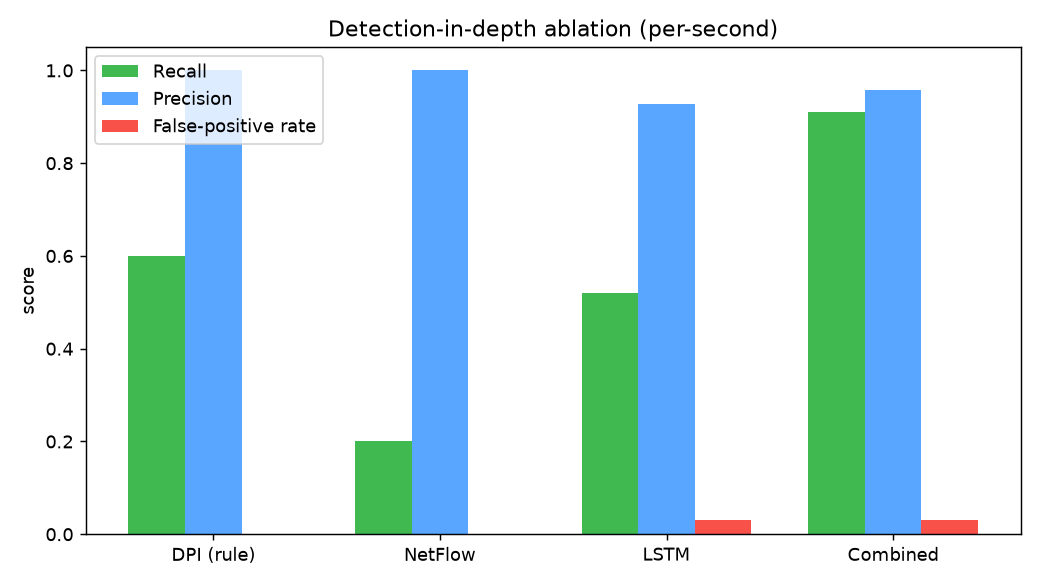
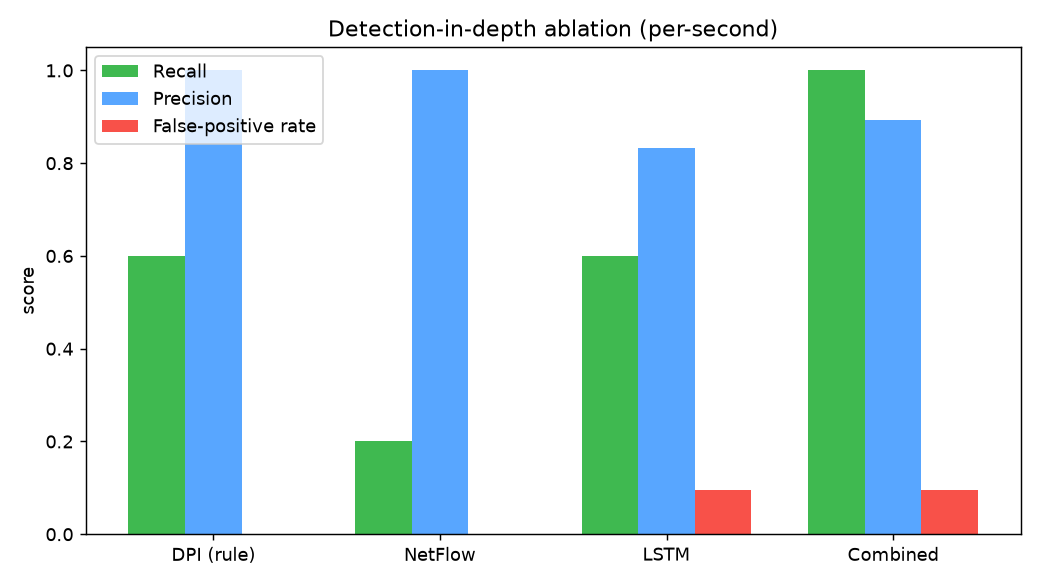
Fix dataset generator: controller now restores actuators after an attack
The legitimate HMI only wrote an actuator when its own decision changed, so it
wrote each pump once at t=0 and never again. After the command-injection and
stealth attacks it never switched P101 back on or P203 back off, so seconds
labelled normal after those attacks still carried the attack's effect, and the
LSTM was partly trained on them. Found while plotting the dataset for the report.

The HMI now compares its desired output with the register it just read and
re-asserts on mismatch, as a PLC re-applies outputs each scan cycle. New test
test_actuators_restored_after_attack_windows fails on the old code and passes
on the new.

Regenerated data/run1 and re-ran every simulator result:
- LSTM: stealth 56% -> 100% of windows; replay now 0% (it has no process effect;
  DPI still catches it).
- Combined: recall 0.911 -> 1.000, precision 0.958 -> 0.893, all five classes
  at 100%. All 27 false-positive seconds are LSTM alerts 1-9 s after an attack
  ends, where the 10 s window still overlaps attack data.
- NetFlow normal ceiling 9 -> 3 requests/window; still 45/45 floods, 0 FP.
- Ledger now 505 entries, tamper detection unchanged.

docs/results.md and README updated with the corrected numbers and an account
of the bug. Adds report/make_figures.py and report figures (architecture,
dataset timeline, dashboard screenshots). 24 tests pass.

diff --git a/report/make_figures.py b/report/make_figures.py
@@ -1,0 +1,154 @@
+"""
+Figures for the final report that are not produced by the evaluation scripts.
+
+    python -m report.make_figures
+
+Writes report/figures/architecture.png and report/figures/dataset_timeline.png.
+The evaluation plots (eval/results/*.png) and the dashboard screenshots are
+produced elsewhere and referenced directly by the report.
+"""
+from __future__ import annotations
+
+import csv
+import os
+
+import matplotlib
+matplotlib.use("Agg")
+import matplotlib.pyplot as plt
+from matplotlib.patches import FancyBboxPatch
+
+OUT = os.path.join("report", "figures")
+
+# light fills + strong edges read well on white paper
+C = {
+    "plant": ("#e8f1fb", "#2f6db5"), "hmi": ("#e8f1fb", "#2f6db5"),
+    "attack": ("#fde8e7", "#c62828"), "log": ("#f1f1f1", "#555555"),
+    "dpi": ("#e6f0ff", "#1f5fbf"), "nf": ("#fdf3dc", "#b7791f"),
+    "lstm": ("#f1eafc", "#6b3fb0"), "trust": ("#e5f5ef", "#1e7d5a"),
+}
+
+
+def box(ax, x0, y0, x1, y1, title, sub, kind):
+    fill, edge = C[kind]
+    ax.add_patch(FancyBboxPatch((x0, y0), x1 - x0, y1 - y0,
+                                boxstyle="round,pad=0.4,rounding_size=1.2",
+                                fc=fill, ec=edge, lw=1.6))
+    cx = (x0 + x1) / 2
+    ax.text(cx, (y0 + y1) / 2 + (1.1 if sub else 0), title, ha="center",
+            va="center", fontsize=10.5, fontweight="bold", color="#1b1b1b")
+    if sub:
+        ax.text(cx, (y0 + y1) / 2 - 1.6, sub, ha="center", va="center",
+                fontsize=8.3, color="#333333")
+
+
+def arrow(ax, x0, y0, x1, y1, color="#444444", style="-|>", ls="-"):
+    ax.annotate("", xy=(x1, y1), xytext=(x0, y0),
+                arrowprops=dict(arrowstyle=style, color=color, lw=1.5,
+                                linestyle=ls, shrinkA=0, shrinkB=0))
+
+
+def architecture() -> str:
+    fig, ax = plt.subplots(figsize=(11, 7.2))
+    ax.set_xlim(0, 100); ax.set_ylim(0, 66); ax.axis("off")
+
+    # --- OT segment -------------------------------------------------------
+    box(ax, 3, 52, 31, 62, "Plant simulator", "5 stages - 13 sensors, 9 actuators", "plant")
+    box(ax, 69, 52, 97, 62, "Soft-PLC / HMI", "authorised writer 10.0.0.5", "hmi")
+    ax.plot([31.8, 68.2], [57, 57], color="#2f6db5", lw=3)
+    ax.text(50, 58.6, "Modbus TCP (real frames)", ha="center", fontsize=9.5,
+            color="#2f6db5", fontweight="bold")
+    box(ax, 40, 44, 60, 50.5, "Attacker", "10.0.0.66 - 5 attack types", "attack")
+    arrow(ax, 50, 51, 50, 56.4, color="#c62828")
+
+    # --- data streams -----------------------------------------------------
+    box(ax, 3, 32, 31, 40, "Device log", "1 Hz sensor/actuator history", "log")
+    box(ax, 69, 32, 97, 40, "Network log", "decoded Modbus transactions", "log")
+    arrow(ax, 17, 51.4, 17, 40.6)
+    arrow(ax, 64, 57, 83, 40.6)
+    ax.text(76.5, 49, "tap", fontsize=8.5, color="#555555", style="italic")
+
+    # --- detection layer --------------------------------------------------
+    box(ax, 3, 17, 31, 25.5, "LSTM autoencoder", "stealthy / unseen behaviour", "lstm")
+    box(ax, 38, 17, 64, 25.5, "DPI rule engine", "who wrote what, where", "dpi")
+    box(ax, 71, 17, 97, 25.5, "NetFlow monitor", "request floods (DoS)", "nf")
+    arrow(ax, 17, 31.4, 17, 26.1)
+    arrow(ax, 76, 31.4, 51, 26.1)
+    arrow(ax, 88, 31.4, 84, 26.1)
+    ax.text(1.5, 28.5, "detection-in-depth", fontsize=9, color="#666666",
+            rotation=90, va="center")
+
+    # --- trust + response -------------------------------------------------
+    box(ax, 37, 2, 63, 10, "Correlator", "one time-ordered incident stream", "trust")
+    box(ax, 3, 2, 31, 10, "Operator dashboard", "FastAPI + WebSocket", "trust")
+    box(ax, 69, 2, 97, 10, "Hash-chain ledger", "SHA-256 links + Ed25519", "trust")
+    arrow(ax, 17, 16.4, 44, 10.6)
+    arrow(ax, 51, 16.4, 50, 10.6)
+    arrow(ax, 84, 16.4, 56, 10.6)
+    arrow(ax, 36.4, 6, 31.6, 6)
+    arrow(ax, 63.6, 6, 68.4, 6)
+
+    fig.tight_layout()
+    p = os.path.join(OUT, "architecture.png")
+    fig.savefig(p, dpi=170); plt.close(fig)
+    return p
+
+
+def dataset_timeline(device_log: str = "data/run1/device_log.csv") -> str:
+    rows = list(csv.DictReader(open(device_log, newline="", encoding="utf-8")))
+    t = [int(r["tick"]) for r in rows]
+    lit = [float(r["LIT101"]) for r in rows]
+    ph = [float(r["AIT202"]) for r in rows]
+    p101 = [int(float(r["P101"])) for r in rows]
+    p203 = [int(float(r["P203"])) for r in rows]
+    labels = [r["label"] for r in rows]
+
+    # contiguous attack windows
+    wins, cur = [], None
+    for i, l in enumerate(labels):
+        if l != "normal":
+            cur = (l, cur[1] if cur and cur[0] == l else i, i)
+        elif cur:
+            wins.append(cur); cur = None
+    if cur:
+        wins.append(cur)
+    short = {"false_data_injection": "False data\ninjection",
+             "command_injection": "Command\ninjection", "flooding_dos": "Flooding\n(DoS)",
+             "replay": "Replay", "stealth_manipulation": "Stealth\nmanipulation"}
+
+    fig, axes = plt.subplots(3, 1, figsize=(11, 6.4), sharex=True,
+                             gridspec_kw={"height_ratios": [1.2, 1, 0.8]})
+    for ax in axes:
+        for l, s, e in wins:
+            ax.axvspan(s, e + 1, color="#f28b82", alpha=0.25, lw=0)
+    for l, s, e in wins:
+        axes[0].text((s + e) / 2, 1240, short[l], ha="center", va="bottom",
+                     fontsize=8, color="#8e1b1b")
+
+    axes[0].plot(t, lit, color="#1f5fbf", lw=1.2)
+    axes[0].axhline(1100, color="#c62828", ls="--", lw=0.9)
+    axes[0].set_ylabel("LIT101\ntank level (mm)"); axes[0].set_ylim(0, 1450)
+    axes[0].text(3, 1115, "safe limit 1100", fontsize=7.5, color="#c62828")
+
+    axes[1].plot(t, ph, color="#6b3fb0", lw=1.2)
+    axes[1].set_ylabel("AIT202\npH")
+
+    axes[2].step(t, p101, where="post", color="#1e7d5a", lw=1.2, label="P101 transfer pump")
+    axes[2].step(t, [v + 1.3 for v in p203], where="post", color="#b7791f", lw=1.2,
+                 label="P203 acid pump (offset)")
+    axes[2].set_yticks([0, 1, 1.3, 2.3]); axes[2].set_yticklabels(["off", "on", "off", "on"])
+    axes[2].set_ylabel("pump state"); axes[2].legend(loc="center right", fontsize=7.5)
+    axes[2].set_xlabel("time (s)")
+    fig.tight_layout(rect=(0, 0, 1, 0.97))
+    p = os.path.join(OUT, "dataset_timeline.png")
+    fig.savefig(p, dpi=160); plt.close(fig)
+    return p
+
+
+def main() -> None:
+    os.makedirs(OUT, exist_ok=True)
+    for p in (architecture(), dataset_timeline()):
+        print("saved", p)
+
+
+if __name__ == "__main__":
+    main()

diff --git a/net/generate_dataset.py b/net/generate_dataset.py
@@ -102,8 +102,15 @@ def _write(ctx, address: int, value: int) -> None:
 # ---------------------------------------------------------------------------
 # Actors
 # ---------------------------------------------------------------------------
-async def hmi_tick(client, ctx, sink, last_cmd: dict) -> list[int]:
-    """HMI reads the sensor block then writes any changed actuator commands."""
+async def hmi_tick(client, ctx, sink) -> list[int]:
+    """HMI reads the register block, then re-asserts any actuator whose register
+    does not hold the value its control logic wants.
+
+    Comparing against the register (not against the HMI's own last command) is
+    what a PLC scan cycle does: outputs are re-applied every cycle. It also means
+    that once an attacker stops overriding an actuator, the next cycle restores
+    it, so post-attack data really is normal operation.
+    """
     # One block read (SCADA-style poll) — logged as a single read transaction.
     regs = await logged_read(client, HMI, 0, REGISTER_COUNT, sink) or \
         [_read(ctx, a) for a in range(REGISTER_COUNT)]
@@ -124,10 +131,9 @@ async def hmi_tick(client, ctx, sink, last_cmd: dict) -> list[int]:
         "P501": 1 if sv("LIT401") > 400 else 0,
     }
     for tag, val in cmds.items():
-        if last_cmd.get(tag) != val:                      # write only on change
-            await logged_write(client, HMI, BY_TAG[tag].address,
-                               BY_TAG[tag].to_register(val), sink)
-            last_cmd[tag] = val
+        p = BY_TAG[tag]
+        if regs[p.address] != p.to_register(val):         # output differs -> re-assert
+            await logged_write(client, HMI, p.address, p.to_register(val), sink)
     return regs
 
 
@@ -218,7 +224,6 @@ async def generate(out_dir: str, scenarios: list[str], speedup: float, seed: int
     net_log: list[Transaction] = []
     device_rows: list[dict] = []
     replay_buf: list[tuple[int, int]] = []
-    last_cmd: dict[str, int] = {}
 
     wall = "max speed" if speedup <= 0 else f"~{duration/speedup:.0f}s wall"
     print(f"Generating {duration} sim-seconds "
@@ -240,7 +245,7 @@ async def generate(out_dir: str, scenarios: list[str], speedup: float, seed: int
             await attack_pre_read(label, ctx, attacker, net_log, replay_buf)
             # 4. legitimate HMI poll + control
             before = len(net_log)
-            await hmi_tick(hmi, ctx, net_log, last_cmd)
+            await hmi_tick(hmi, ctx, net_log)
             # remember a legit actuator write for later replay
             for t in net_log[before:]:
                 if t.is_write and t.src_ip == HMI.ip:

diff --git a/tests/test_dataset_generator.py b/tests/test_dataset_generator.py
@@ -11,9 +11,10 @@ import pytest
 
 from net.generate_dataset import generate, DEVICE_COLUMNS
 from net.transaction import COLUMNS as NET_COLUMNS
-from net.config import LABEL_FDI, LABEL_STEALTH, ATTACKER
+from net.config import LABEL_FDI, LABEL_STEALTH, LABEL_CMD_INJECTION, ATTACKER
 
 PORT = 5124  # test-only Modbus port
+PORT_RESTORE = 5125
 
 
 @pytest.mark.asyncio
@@ -47,3 +48,25 @@ async def test_generate_small_dataset(tmp_path):
     stealth_rows = [r for r in dev if r["label"] == LABEL_STEALTH]
     assert all(6.5 <= float(r["AIT202"]) <= 8.5 for r in stealth_rows)
     assert all(int(r["P203"]) == 1 for r in stealth_rows)
+
+
+@pytest.mark.asyncio
+async def test_actuators_restored_after_attack_windows(tmp_path):
+    """An attacker's actuator override must not outlive its attack window.
+
+    The legitimate controller re-asserts its outputs each cycle, so once the
+    attack stops, the next cycle puts the pump back. Otherwise seconds labelled
+    'normal' after an attack would still carry the attack's effect.
+    """
+    out = str(tmp_path / "run")
+    # ticks: 0-7 normal | 8-15 command injection | 16-21 normal
+    #        22-29 stealth | 30-35 normal
+    await generate(out, scenarios=[LABEL_CMD_INJECTION, LABEL_STEALTH], speedup=0,
+                   seed=1, warmup=8, attack=8, gap=6, flood_n=10, port=PORT_RESTORE)
+    dev = list(csv.DictReader(open(os.path.join(out, "device_log.csv"), encoding="utf-8")))
+    state = lambda tag, lo, hi: [int(dev[t][tag]) for t in range(lo, hi + 1)]
+
+    assert state("P101", 8, 15) == [0] * 8     # attack holds the transfer pump off...
+    assert state("P101", 16, 21) == [1] * 6    # ...and it is back on once the attack ends
+    assert state("P203", 22, 29) == [1] * 8    # stealth holds the acid pump on...
+    assert state("P203", 30, 35) == [0] * 6    # ...and it is off again afterwards

diff --git a/docs/results.md b/docs/results.md
@@ -1,11 +1,11 @@
 # Evaluation Results (Phase 7)
 
 Generated by `python -m eval.evaluate` on `data/run1` (510 s of operation: normal
-traffic plus five attack episodes). Evaluation unit is one second (tick); ground
-truth is the device log's per-tick label. Reproduce with:
+traffic plus five 45-second attack episodes). Evaluation unit is one second
+(tick); ground truth is the device log's per-tick label. Reproduce with:
 
 ```bash
-python -m net.generate_dataset --out-dir data/run1 --seed 42   # dataset
+python -m net.generate_dataset --out-dir data/run1 --speedup 0 --seed 42   # dataset
 python -m detect.lstm.train --device-log data/run1/device_log.csv
 python -m eval.evaluate
 ```
@@ -16,12 +16,13 @@ python -m eval.evaluate
 |---|---|---|---|---|
 | DPI (rule) | 1.000 | 0.600 | 0.000 | 0.750 |
 | NetFlow | 1.000 | 0.200 | 0.000 | 0.333 |
-| LSTM | 0.929 | 0.520 | 0.032 | 0.667 |
-| **Combined** | **0.958** | **0.911** | **0.032** | **0.934** |
+| LSTM | 0.833 | 0.600 | 0.095 | 0.698 |
+| **Combined** | **0.893** | **1.000** | **0.095** | **0.943** |
 
-The combined detection-in-depth system dominates every single layer on recall and
-F1: no individual layer sees more than 60% of attack activity, while the
-combination reaches ~91% recall at ~96% precision.
+No single layer sees more than 60% of the attack seconds. Combined, the three
+layers flag every attack second (recall 1.000). The combined false-positive rate
+comes entirely from the LSTM's sliding window running past the end of an attack
+(see the notes below).
 
 ## Per-attack-class recall
 
@@ -29,13 +30,20 @@ combination reaches ~91% recall at ~96% precision.
 |---|---|---|---|---|---|
 | DPI (rule) | 100% | 100% | 0% | 100% | 0% |
 | NetFlow | 0% | 0% | 100% | 0% | 0% |
-| LSTM | 100% | 87% | 9% | 9% | 56% |
-| **Combined** | **100%** | **100%** | **100%** | **100%** | **56%** |
+| LSTM | 100% | 100% | 0% | 0% | 100% |
+| **Combined** | **100%** | **100%** | **100%** | **100%** | **100%** |
 
-Every attack class is covered by at least one layer. The two attacks the
-protocol-aware layer cannot see — flooding (a flood of valid reads) and stealth (a
-protocol-valid command from a compromised HMI) — are exactly the ones the NetFlow
-and LSTM layers were added to catch.
+Every attack class is covered by at least one layer, and each layer's blind spots
+are covered by another:
+
+- **Flooding** is a burst of valid reads that changes nothing in the process, so
+  neither DPI (which inspects writes) nor the LSTM (which watches the process) can
+  see it; the NetFlow volume monitor catches it.
+- **Stealth** is a protocol-valid command from the authorised HMI address, so DPI
+  cannot flag it; the LSTM catches the abnormal process behaviour it causes.
+- **Replay** re-sends a legitimate command, so the process behaves normally and
+  the LSTM sees nothing; DPI catches it because it comes from an unauthorised
+  source.
 
 ## Detection latency (seconds to first alert)
 
@@ -43,24 +51,33 @@ and LSTM layers were added to catch.
 |---|---|---|---|---|---|
 | DPI (rule) | 0 | 0 | missed | 0 | missed |
 | NetFlow | missed | missed | 0 | missed | missed |
-| LSTM | 0 | 1 | 5 | 0 | 0 |
+| LSTM | 0 | 0 | missed | missed | 0 |
 | **Combined** | **0** | **0** | **0** | **0** | **0** |
 
-The combined system raises an alert within the first second of every attack
-episode.
+The combined system raises an alert in the first second of every attack episode.
 
 ## Notes on the numbers
 
-- **Stealth recall (56%) vs latency (0 s).** At the per-second level the LSTM
-  flags 56% of the stealth episode's seconds, but its *first* alert lands at the
-  episode's first second, so the episode is detected immediately. Per-second
-  recall understates episode-level detection, which is 100% for every class.
-- **Combined FPR (0.032).** The only false positives come from the LSTM firing on
-  windows in the few seconds just after an attack ends, where its sliding window
-  still overlaps attack data. This is an artifact of the strict per-second
-  ground-truth convention (the tick is labelled normal even though the window
-  still contains attack samples) rather than a spurious alarm during genuinely
-  normal operation. DPI and NetFlow have a 0% false-positive rate.
+- **Where the false positives are.** All 27 false-positive seconds (FPR 0.095)
+  are LSTM alerts in the 1–9 seconds immediately after the false-data-injection,
+  command-injection and stealth episodes end (9 after each). The LSTM scores
+  10-second windows, and a window ending up to 9 s after an attack still contains
+  attack seconds. The strict per-second ground truth labels those seconds normal.
+  The LSTM raises no alerts anywhere else in normal operation, and DPI and
+  NetFlow have a 0% false-positive rate. A deployment could suppress this tail
+  or report the LSTM's alert time as the start of the window.
+- **Earlier numbers were affected by a data bug.** A previous version of these
+  results (recall 0.911, precision 0.958, stealth recall 56%) came from a dataset
+  in which the legitimate controller only sent a command when its own decision
+  changed. After the command-injection and stealth attacks it therefore never
+  switched the affected pump back, so seconds labelled normal after those attacks
+  still carried the attack's effect, and the LSTM was partly trained on them. The
+  controller now re-applies its outputs every cycle, as a PLC does, and a test
+  (`tests/test_dataset_generator.py`) checks that pumps are restored once an
+  attack ends. All numbers above come from the corrected dataset.
+- **These are simulator results.** They show the layers work as designed on the
+  attacks and operating conditions they were built for. On the public HAI dataset
+  the LSTM layer does not generalise well; see [hai_validation.md](hai_validation.md).
 
 ## Plots
 

diff --git a/README.md b/README.md
@@ -122,8 +122,10 @@ cannot see it), and names the most abnormal signal:
 python -m detect.lstm.train  --device-log data/run1/device_log.csv   # train on normal
 python -m detect.lstm.detect --device-log data/run1/device_log.csv   # score + report
 ```
-On `data/run1`: detects all five attack classes with 0% false positives on normal
-windows. Model in [`detect/lstm/model.py`](detect/lstm/model.py).
+On `data/run1` it catches false data injection, command injection and stealth in
+every window, with no false positives on windows of normal operation. It cannot
+see flooding or replay, which leave the process unchanged. Model in
+[`detect/lstm/model.py`](detect/lstm/model.py).
 
 ### Detection-in-depth coverage
 
@@ -131,8 +133,8 @@ windows. Model in [`detect/lstm/model.py`](detect/lstm/model.py).
 |---|---|---|---|
 | false data injection | ✅ | | ✅ |
 | command injection | ✅ | | ✅ |
-| replay | ✅ | | ✅ |
-| flooding / DoS | | ✅ | (partial) |
+| replay | ✅ | | |
+| flooding / DoS | | ✅ | |
 | stealth manipulation | | | ✅ |
 
 Every attack is covered by at least one layer — the point of the layered design.
@@ -146,10 +148,11 @@ per-class recall, detection latency) and writes plots + JSON:
 python -m eval.evaluate     # -> eval/results/{ablation.png, per_class_recall.png, results.json}
 ```
 
-Headline result on `data/run1` (our simulator): the **combined** system reaches
-**0.91 recall / 0.96 precision** and detects every attack within **1 second**,
-while no single layer exceeds 0.60 recall — quantifying the value of the layered
-design. Full numbers and methodology in [`docs/results.md`](docs/results.md).
+Headline result on `data/run1` (our simulator): no single layer flags more than
+60% of attack seconds, while the **combined** system flags **every attack second
+(recall 1.00) at 0.89 precision** and alerts in the first second of every attack.
+All of its false positives are LSTM alerts in the 9 seconds after an attack ends,
+where its 10-second window still overlaps the attack. Full numbers and methodology in [`docs/results.md`](docs/results.md).
 These are simulator results; see the external validation below for how the LSTM
 layer holds up on real data.
 
